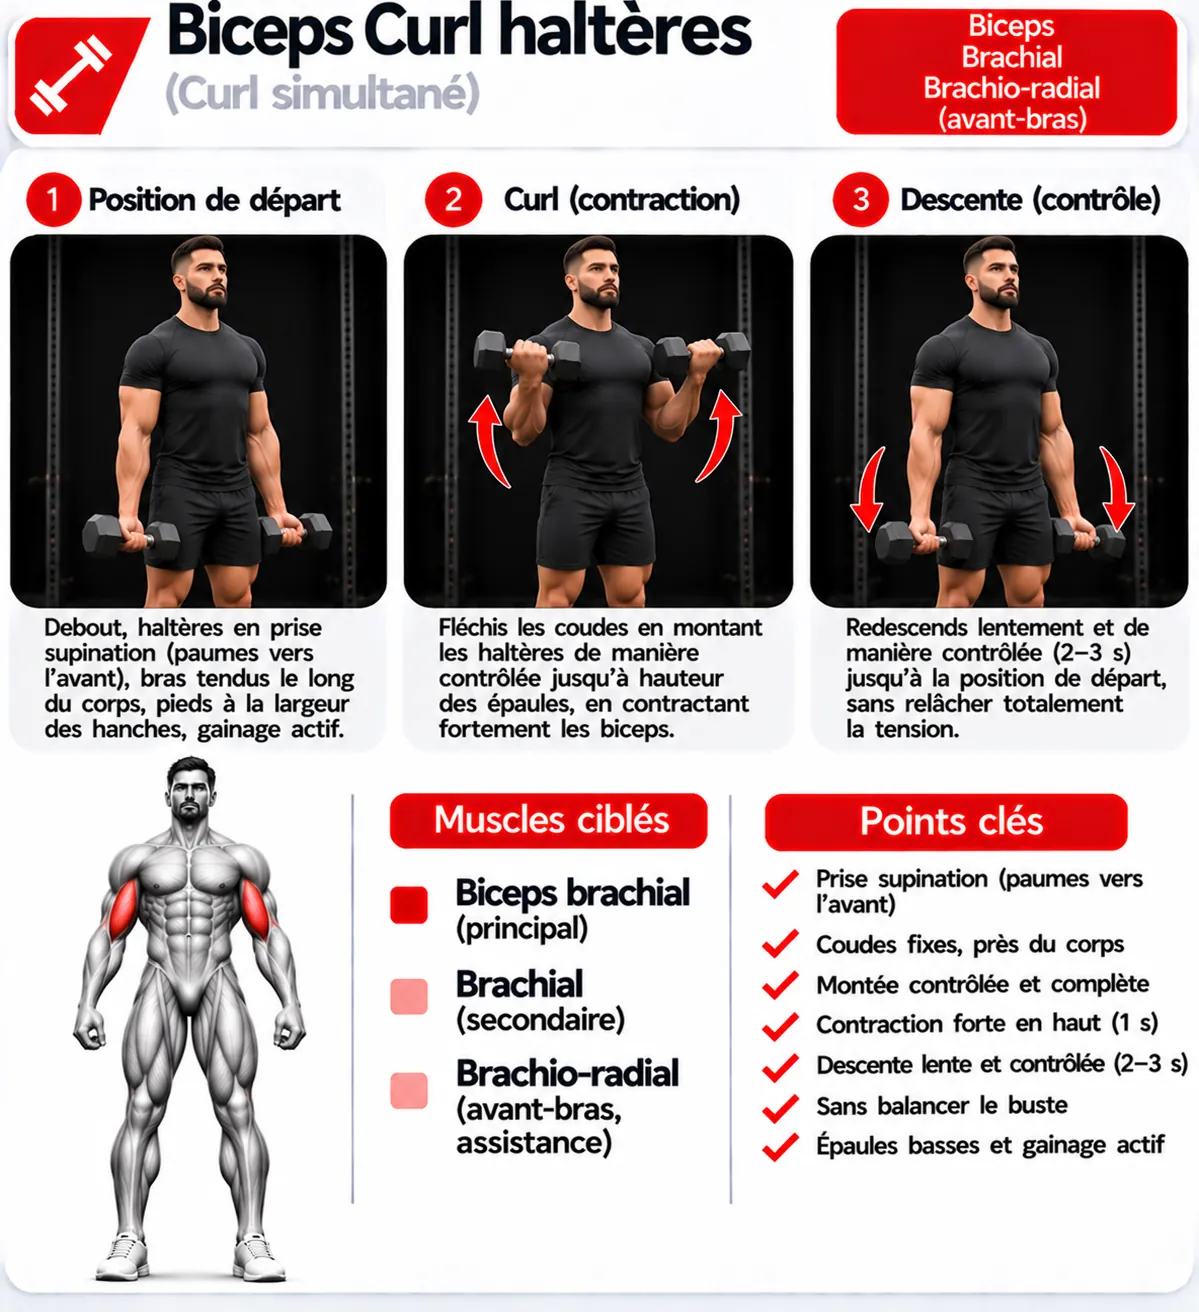
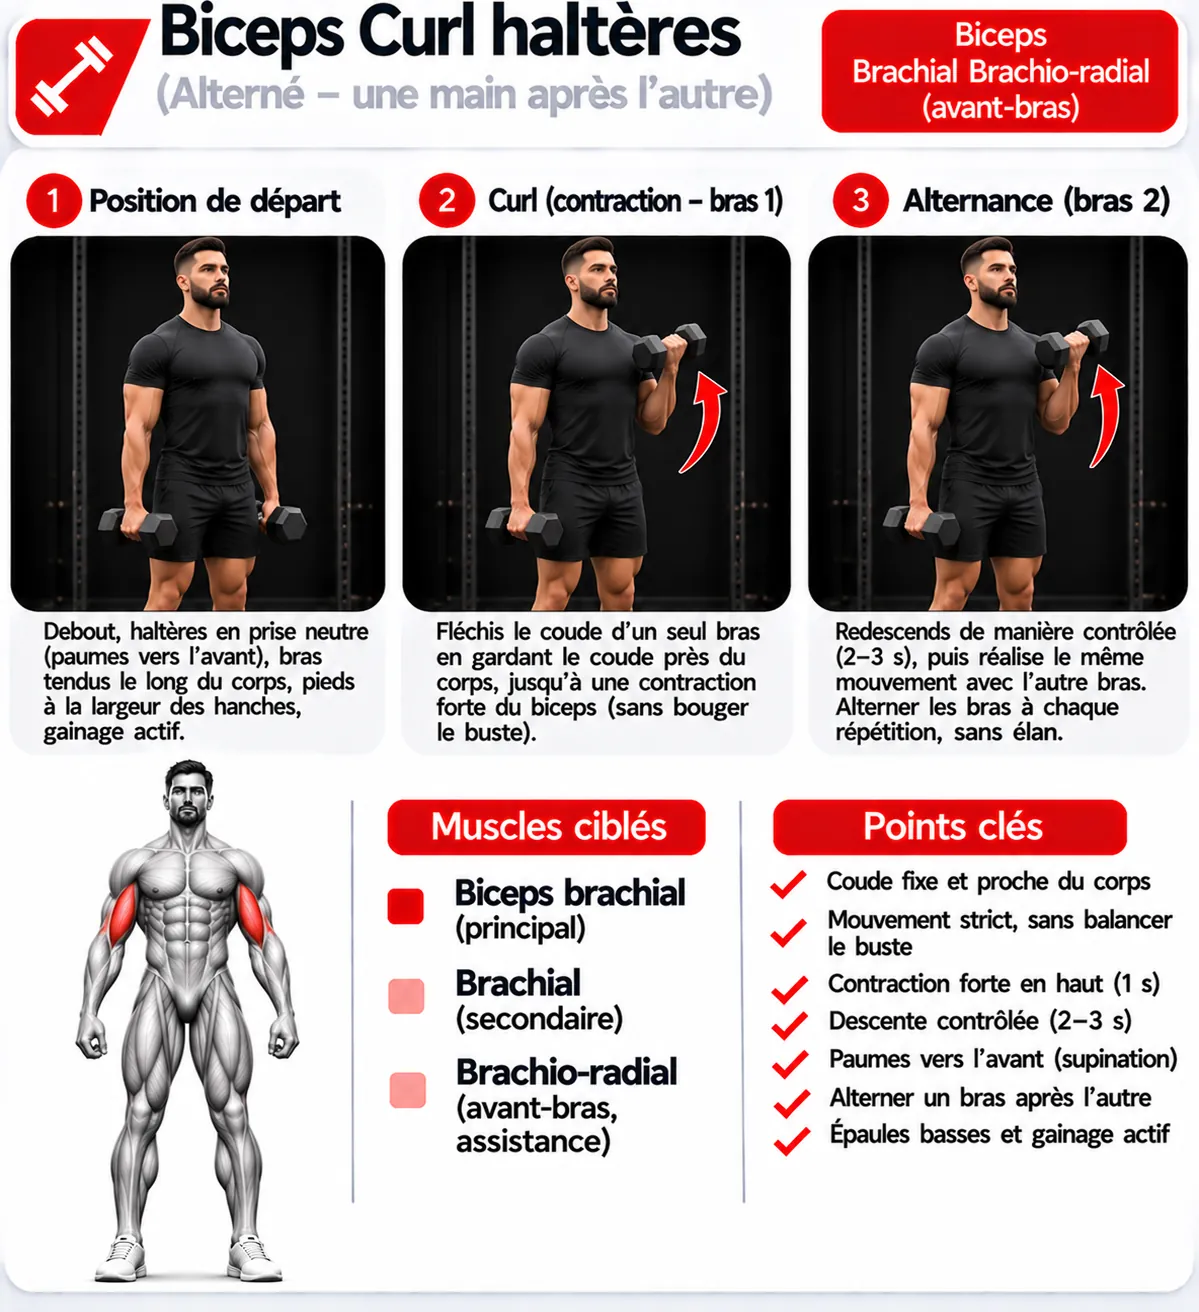
Jeudi : roman side bench (nom exact) et fiche du curl haltères alterné
Claude-Session: https://claude.ai/code/session_019ytvrCwvabyHsyjLn9v2cS

diff --git a/src/data/exercises.ts b/src/data/exercises.ts
@@ -93,7 +93,6 @@ const LIST: ExerciseDef[] = [
     role: 'accessory',
     measure: 'kg',
     intent: 'Alterne : une rep bras gauche, une rep bras droit. Amplitude maximale, pic de contraction en haut, descente en 2 s.',
-    cues: ['La fiche montre le curl simultané : la technique est la même, mais ici on alterne les bras.'],
   },
   {
     id: 'machine-curl',
@@ -108,17 +107,17 @@ const LIST: ExerciseDef[] = [
       'Série 1 — 8 à 10 reps : une répétition = une demi-amplitude puis une amplitude complète. Cherche la contraction maximale, pas d’ego lifting. Ensuite 5 s de pause, puis le maximum de reps jusqu’à l’échec.',
       'Série 2 — contraction maintenue : 5 reps, puis tiens 5 s bras fléchis, biceps contractés. Enchaîne ce bloc 3 fois de suite.',
       'Série 3 — tempo : 8 à 10 reps, montée explosive, retour en 3 s. Ensuite 5 s de pause, puis le maximum de reps.',
-      'Repos : 1 min 30 entre les séries, 3 min avant le gainage latéral.',
+      'Repos : 1 min 30 entre les séries, 3 min avant le roman side bench.',
     ],
   },
   {
     id: 'roman-side-bench',
     fiche: 'fiches/roman-side-bench.webp',
-    name: 'Flexion latérale sur chaise romaine, haltère',
+    name: 'Roman side bench, haltère ou kettlebell',
     fn: 'core',
     role: 'core',
     measure: 'kg',
-    intent: 'De côté sur la chaise romaine, haltère ou kettlebell dans la main du côté qui travaille. Descente 2-3 s, remontée en contractant l’oblique, sans élan ni rotation.',
+    intent: 'Installé de côté sur le banc, haltère ou kettlebell dans la main du côté qui travaille. Descente 2-3 s, remontée en contractant l’oblique, sans élan ni rotation.',
   },
 
   // ------------------------------------------- MARDI — dos (Guillaume) --

diff --git a/programme-teddy-4-semaines.md b/programme-teddy-4-semaines.md
@@ -61,7 +61,7 @@ de reps.
 | 4 | Superset écarté couché haltères + pull over haltère, descente 3 s, étirement | 3 × 12 + 12 | 1 min 30 après le duo |
 | 5 | Curl haltères debout alterné, amplitude max, descente 2 s, pic de contraction | 3 × 10 / bras | 1 min 30 |
 | 6 | Curl machine — 3 séries différentes (même schéma que l'écarté poulie) | 3 × 8-10 | 1 min 30, puis 3 min |
-| 7 | Flexion latérale sur chaise romaine, haltère ou kettlebell | 3 × 8 / côté | 1 min |
+| 7 | Roman side bench, haltère ou kettlebell | 3 × 8 / côté | 1 min |
 
 **Saisie des deuxièmes parties :** sous chaque série concernée, Tedhi note les reps (et la charge pour les dégressives). Échec après pause : reps seulement, charge « — » (la même).
 
